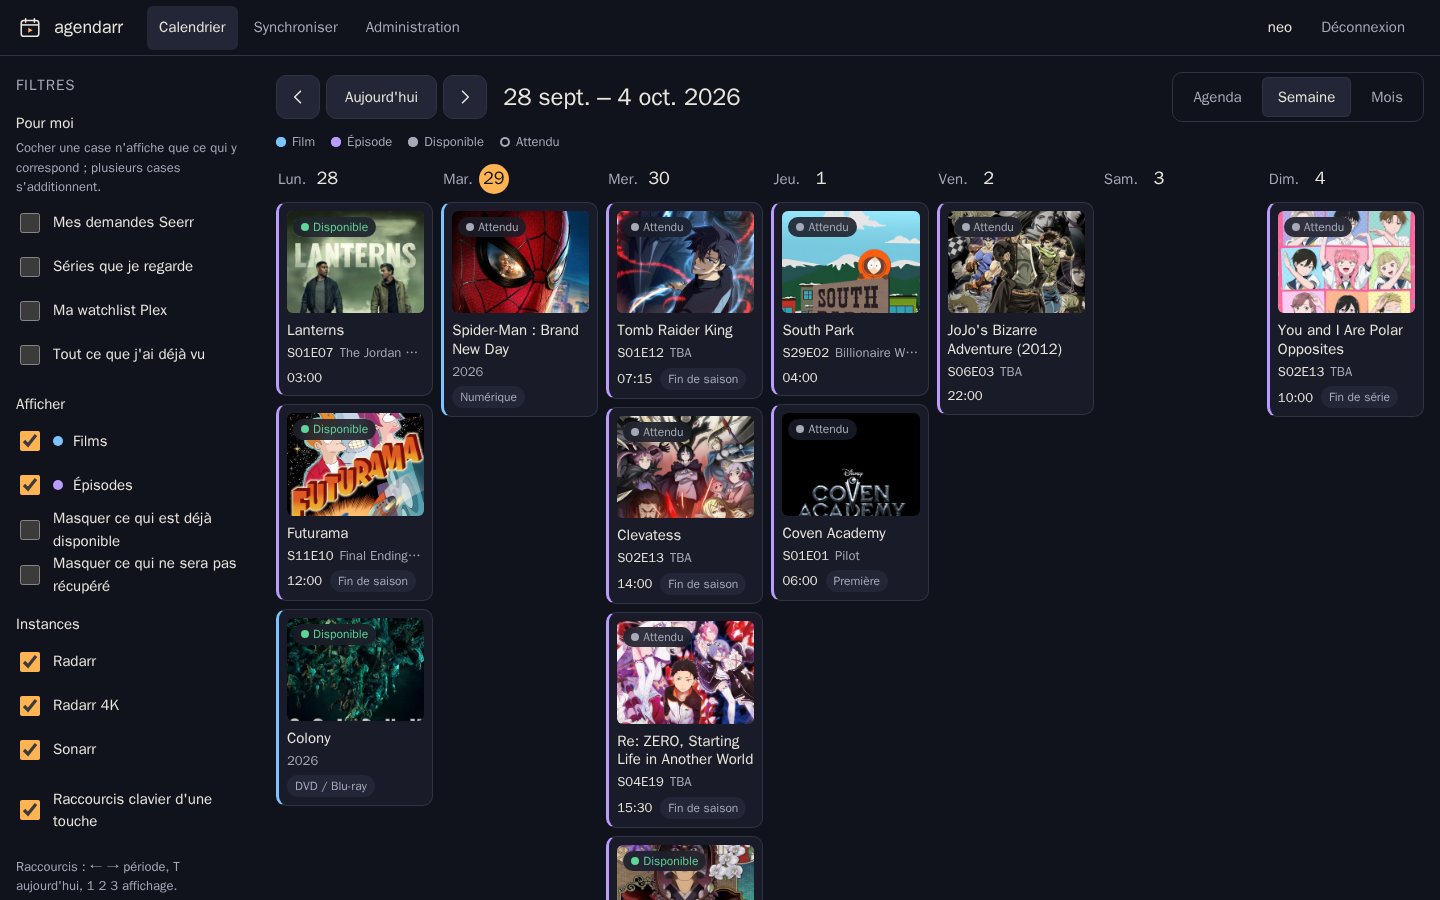
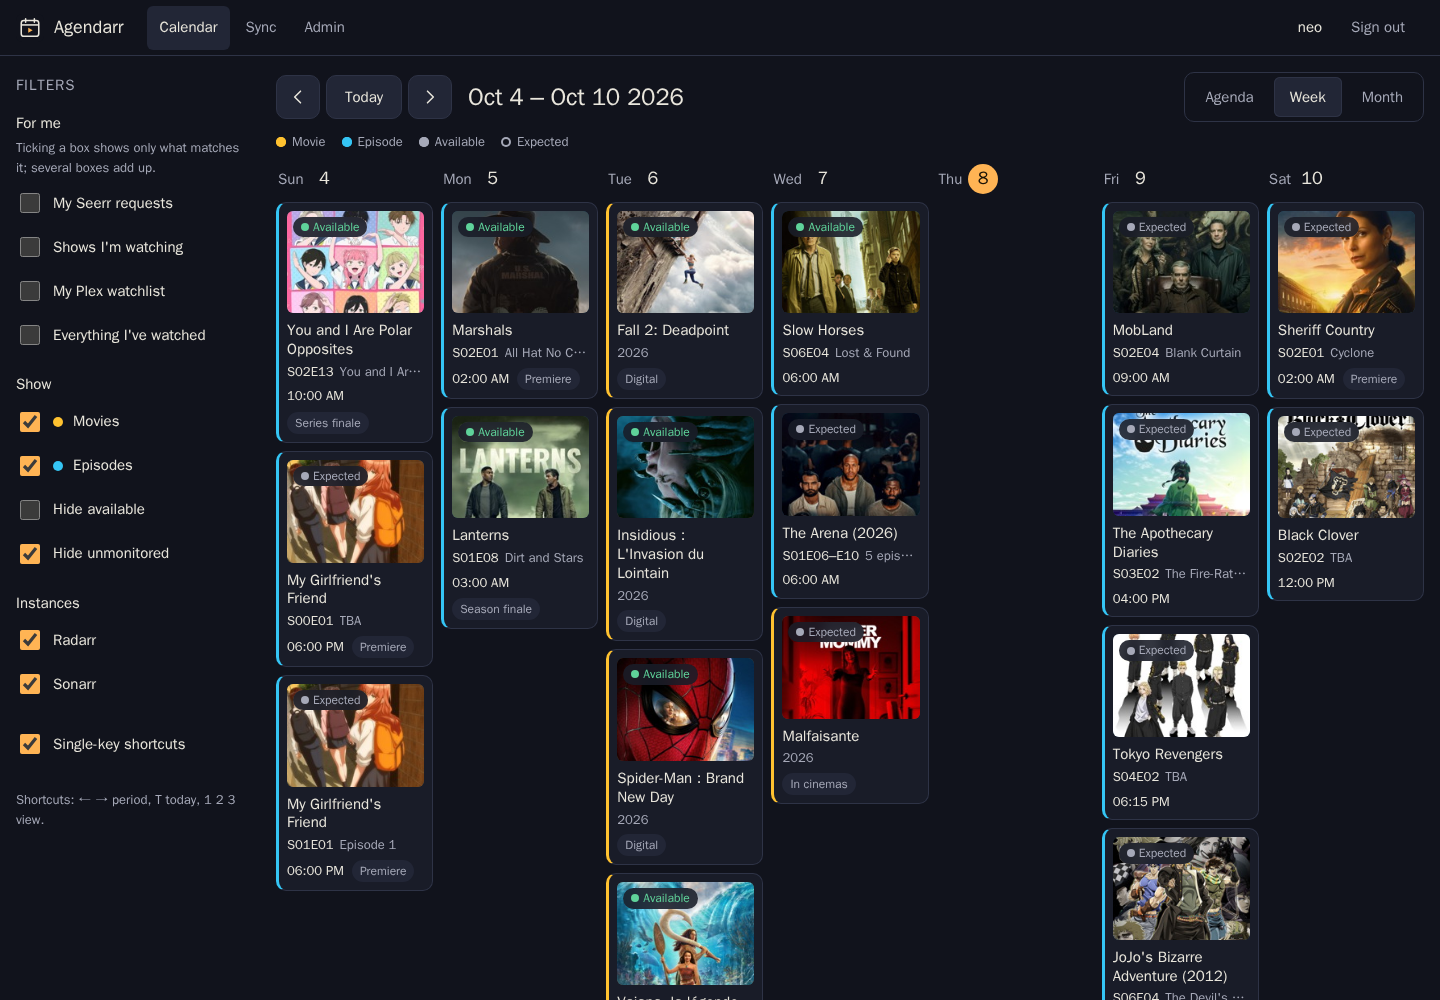
docs: README for a public release, with fresh screenshots
The screenshots dated from September and no longer matched the UI
(lowercase name, old labels and colours). New set, in English, light
and dark: month (switching with GitHub's theme), week, phone agenda,
detail sheet, calendar subscription and the instances admin page.

The README gains a pitch, requirements, reverse proxy examples (Caddy,
Traefik, nginx), backups (secret.key travels with the database) and
troubleshooting for the usual setup mistakes.

diff --git a/README.md b/README.md
@@ -1,40 +1,92 @@
+<div align="center">
+
+<img src="web/static/icons/icon.svg" width="96" height="96" alt="">
+
 # Agendarr
 
-A self-hosted release calendar for a Plex household. Agendarr merges the
-calendars of your Radarr and Sonarr instances, knows from Seerr who asked for
-what, and lets each person sign in with their Plex account to see everything —
-or only what concerns them.
+**The release calendar for your Plex household.**
 
-![Month view on desktop](docs/screenshots/desktop-month.png)
+Radarr, Sonarr and Seerr in one calendar. Everyone signs in with their Plex account
+and sees everything that's coming, or just what they care about.
 
-| Week view | Agenda on a phone | Release details |
-| --- | --- | --- |
-| ![Week view](docs/screenshots/desktop-week.png) | ![Agenda](docs/screenshots/phone-agenda.png) | ![Details](docs/screenshots/phone-detail.png) |
+[![CI](https://github.com/neotoxicfr/agendarr/actions/workflows/ci.yml/badge.svg?branch=dev)](https://github.com/neotoxicfr/agendarr/actions/workflows/ci.yml)
+[![Release](https://img.shields.io/github/v/release/neotoxicfr/agendarr?sort=semver)](https://github.com/neotoxicfr/agendarr/releases)
+[![License: MIT](https://img.shields.io/badge/license-MIT-blue.svg)](LICENSE)
+
+</div>
+
+<picture>
+  <source media="(prefers-color-scheme: light)" srcset="docs/screenshots/desktop-month-light.png">
+  <img src="docs/screenshots/desktop-month-dark.png" alt="Agendarr month view on a desktop: movies and episodes of October, with the filter panel on the left">
+</picture>
+
+## Why Agendarr
+
+Radarr and Sonarr each have a calendar, but each one only covers its own instance,
+and only the admin can open them. Agendarr gives the whole household one calendar:
+
+- **Nothing to set up for your users.** Anyone you share your Plex server with
+  signs in with Plex. No accounts or invitations to create.
+- **Everyone gets their own view.** *My Seerr requests*, *shows I'm watching*,
+  *my Plex watchlist*, *everything I've watched*: each person ticks what they want.
+- **It goes where people already look.** A personal iCal link puts releases in
+  Apple Calendar, Google Calendar or Outlook, with that person's filters applied.
+
+<table>
+  <tr>
+    <td width="33%"><img src="docs/screenshots/phone-agenda.png" alt="Agenda view on a phone, with posters, episode codes and status"></td>
+    <td width="33%"><img src="docs/screenshots/phone-detail.png" alt="Release details in a bottom sheet on a phone"></td>
+    <td width="33%"><img src="docs/screenshots/phone-sync.png" alt="Calendar subscription page with Apple, Google and Outlook buttons"></td>
+  </tr>
+  <tr>
+    <td align="center">Agenda on a phone</td>
+    <td align="center">Release details</td>
+    <td align="center">Subscribe in your calendar app</td>
+  </tr>
+</table>
+
+![Week view on a desktop, with posters and availability badges](docs/screenshots/desktop-week.png)
 
 ## Features
 
-- **One calendar for every instance**: several Radarr and Sonarr instances
-  (a 4K one, an anime one…), duplicates merged. Movies show their cinema,
-  digital and physical releases; episodes their exact air time, in each
-  viewer's time zone.
-- **Sign in with Plex**: anyone the Plex server is shared with can sign in.
-  On first run, the owner of the Plex server becomes the administrator and
-  the server is bound automatically. Access is re-checked daily.
-- **Personal filters**, each person's choice, combinable: *my Seerr
-  requests*, *shows I'm watching* (Plex history, last 90 days), *my Plex
-  watchlist*, *everything I've watched*. Every release shows who requested it.
-- **Desktop and phone alike**: month, week and agenda views; keyboard
-  shortcuts and a side panel on desktop; bottom tab bar, swipe and bottom
-  sheets on phones. Installable as a PWA, readable offline.
-- **Calendar subscription**: a personal iCal link for Apple Calendar, Google
-  Calendar (and so Android) and Outlook, with your filters applied.
-- **Accessible**: WCAG 2.2 AA checked with axe on every page, full keyboard
-  use, screen-reader labels, reduced motion respected.
-- **French and English**, picked from the browser or chosen in the footer.
+- **Every instance in one place.** Add as many Radarr and Sonarr instances as you
+  run (4K, anime…); a release seen by several of them shows once. Movies show
+  their cinema, digital and physical releases. Episodes show their air time in
+  each viewer's time zone, and season or series finales are flagged.
+- **Plex sign-in.** On first run, the owner of the Plex server becomes the
+  administrator and their server is bound automatically. Access is re-checked
+  every day, so someone you stop sharing with loses access too.
+- **Personal filters**, which can be combined: Seerr requests, shows watched in
+  the last 90 days, Plex watchlist, full Plex history. Every release shows who
+  requested it.
+- **Made for desktop and phone alike.** On desktop: month, week and agenda views,
+  keyboard shortcuts and a filter panel. On phones: a bottom tab bar, swipe
+  between periods and bottom sheets. Installable as an app (PWA) and readable
+  offline.
+- **Calendar subscription.** A private iCal link per person, which they can revoke
+  at any time.
+- **Accessible.** Checked against WCAG 2.2 AA with axe on every page. Fully
+  usable with a keyboard, labelled for screen readers, and it respects reduced
+  motion.
+- **Light and dark**, following the system theme. **English and French**, taken
+  from the browser or picked in the footer.
+- **Small and private.** A single Go binary in a `scratch` image (amd64, arm64,
+  armv7) and one SQLite file. API keys never reach the browser, and the server
+  only talks to your own servers and plex.tv.
 
-## Install
+## Requirements
+
+- A **Plex Media Server**. You sign in with the account that owns it.
+- **Radarr** and/or **Sonarr** (API v3; tested with Radarr 6 and Sonarr 4).
+- Optional: **Seerr** (or Overseerr / Jellyseerr) for the *my requests* filter
+  and the *requested by* names.
+- A reverse proxy with **HTTPS** if you want the app to install on phones and
+  calendar apps to subscribe.
+
+## Quick start
 
 ```yaml
+# docker-compose.yml
 services:
   agendarr:
     image: ghcr.io/neotoxicfr/agendarr:latest
@@ -43,6 +95,8 @@ services:
     environment:
       TZ: Europe/Paris
       AGENDARR_BASE_URL: https://agenda.example.com
+      # Optional: how Agendarr reaches Plex for the history-based filters.
+      # AGENDARR_PLEX_SERVER_URL: http://plex:32400
     volumes:
       - ./data:/data
     ports:
@@ -53,44 +107,126 @@ services:
       - no-new-privileges:true
 ```
 
-The full example is [`deploy/compose.yml.example`](deploy/compose.yml.example).
-Put Agendarr behind your reverse proxy over HTTPS: the PWA only installs over
-HTTPS, and calendar apps need a public URL to subscribe.
+```bash
+docker compose up -d
+```
+
+Then open `https://agenda.example.com`. [`deploy/compose.yml.example`](deploy/compose.yml.example)
+has the same file with comments.
 
 ### First run
 
-1. Open Agendarr and **sign in with the Plex account that owns the server**.
-   It becomes the administrator; if it owns several servers, pick one.
-2. In *Admin › Instances*, add **Seerr**, then click **Import Radarr and
-   Sonarr**: Agendarr copies the servers Seerr knows, keys included. Or add
-   Radarr and Sonarr by hand (*Settings › General* in each app for the API
-   key). **Test connection** checks each one before saving.
-3. Share the URL with your Plex users: they sign in with Plex, nothing to
-   create.
+1. **Sign in with the Plex account that owns the server.** It becomes the
+   administrator. If it owns several servers, pick one.
+2. In **Admin › Instances**, add **Seerr**, then click **Import Radarr and Sonarr**:
+   Agendarr copies the servers Seerr already knows, API keys included. You can
+   also add Radarr and Sonarr by hand (the API key is in *Settings › General* of
+   each app). **Test connection** checks each one before saving.
+3. **Share the URL** with your Plex users. They sign in with Plex, and that's it.
+
+<p align="center">
+  <img src="docs/screenshots/desktop-admin.png" width="85%" alt="Admin page listing the Radarr, Sonarr and Seerr instances, with an Import Radarr and Sonarr button">
+</p>
+
+### Behind a reverse proxy
+
+Agendarr is a plain HTTP server on port 8080. Leave compression to the proxy.
+
+<details>
+<summary>Caddy</summary>
+
+```caddy
+agenda.example.com {
+    encode zstd gzip
+    reverse_proxy agendarr:8080
+}
+```
+</details>
+
+<details>
+<summary>Traefik (labels)</summary>
+
+```yaml
+    labels:
+      traefik.enable: "true"
+      traefik.http.routers.agendarr.rule: Host(`agenda.example.com`)
+      traefik.http.routers.agendarr.entrypoints: websecure
+      traefik.http.routers.agendarr.tls.certresolver: letsencrypt
+      traefik.http.services.agendarr.loadbalancer.server.port: "8080"
+```
+</details>
+
+<details>
+<summary>nginx</summary>
+
+```nginx
+server {
+    listen 443 ssl;
+    server_name agenda.example.com;
+    # ssl_certificate …
+
+    location / {
+        proxy_pass http://agendarr:8080;
+        proxy_set_header Host $host;
+        proxy_set_header X-Forwarded-Proto $scheme;
+    }
+}
+```
+</details>
+
+Calendar apps fetch the iCal link from their own servers, so don't put an IP
+allowlist in front of `/ics/`, or Google and Outlook won't be able to read it.
 
 ## Configuration
 
+Everything else is set up in the app. The environment only covers what the
+app can't work out by itself:
+
 | Variable | Default | Purpose |
 | --- | --- | --- |
-| `AGENDARR_LISTEN` | `:8080` | HTTP listen address |
-| `AGENDARR_DATA_DIR` | `/data` (image), `./data` | Database, encryption key, poster cache |
 | `AGENDARR_BASE_URL` | derived from requests | Public URL, used for the Plex sign-in return and iCal links. Set it behind a proxy. |
-| `AGENDARR_PLEX_SERVER_URL` | advertised connections | How Agendarr reaches Plex for the history-based filters, e.g. `http://plex:32400` on a shared Docker network |
-| `AGENDARR_SECURE_COOKIES` | `true` when the base URL is https | Force the `Secure` cookie flag |
+| `AGENDARR_PLEX_SERVER_URL` | addresses advertised by plex.tv | How Agendarr reaches Plex for the history-based filters, e.g. `http://plex:32400` on a shared Docker network |
+| `AGENDARR_LISTEN` | `:8080` | HTTP listen address |
+| `AGENDARR_DATA_DIR` | `/data` | Database, encryption key, poster cache |
+| `AGENDARR_SECURE_COOKIES` | `true` when the base URL is https | Force the `Secure` cookie flag on or off |
+| `TZ` | UTC | Server time zone (logs). Each viewer sees times in their own time zone. |
+
+## Updating and backups
+
+```bash
+docker compose pull && docker compose up -d
+```
+
+Database migrations run on start. To back up, copy the data volume while the
+container is stopped. Keep `secret.key` with `agendarr.db`: tokens and API
+keys are encrypted with it, and a database without its key can't be read.
+
+## Troubleshooting
+
+- **"Shows I'm watching" or "Everything I've watched" says Plex is unreachable.**
+  Agendarr reads the history on your Plex server itself. Set
+  `AGENDARR_PLEX_SERVER_URL` to an address the container can reach, such as
+  `http://plex:32400`.
+- **"My Seerr requests" says no account is linked.** The person has never signed
+  in to Seerr with Plex, so Seerr doesn't know them.
+- **Google Calendar shows nothing yet.** Google refreshes subscribed calendars
+  every 12 to 24 hours. Apple and Outlook refresh about every hour.
+- **The app doesn't offer to install.** Installing requires HTTPS.
 
 ## How it works
 
-- Radarr and Sonarr calendars are read with their API keys and cached per
-  month for five minutes; an unreachable instance keeps its last known dates
-  and is named in a warning. Posters go through Agendarr
-  (`/api/v3/mediacover`), so API keys never reach the browser.
-- Seerr requests are indexed every ten minutes. Plex history is read on your
+- Radarr and Sonarr calendars are read with their API keys and cached per month
+  for five minutes. An unreachable instance keeps its last known dates and is
+  named in a warning. Posters go through Agendarr, so API keys never reach the
+  browser.
+- Seerr requests are indexed every ten minutes. Plex history is read from your
   server with the owner's token and resolved to TMDB/TVDB/IMDb ids once.
 - Everything lives in one SQLite file. Plex tokens and API keys are encrypted
-  with AES-256-GCM; the key sits next to the database, so keep the data
-  volume private. See [SECURITY.md](SECURITY.md) and the in-app privacy page.
+  with AES-256-GCM. See [SECURITY.md](SECURITY.md) and the in-app privacy page.
 
 ## Development
+
+Requires Go (see [`go.mod`](go.mod)).
 
 ```bash
 make dev         # http://localhost:8080, data in ./data
@@ -98,7 +234,8 @@ make test-race
 make lint
 ```
 
-See [CONTRIBUTING.md](CONTRIBUTING.md). Security issues: [SECURITY.md](SECURITY.md).
+Contributions are welcome: see [CONTRIBUTING.md](CONTRIBUTING.md). Report
+security issues privately as described in [SECURITY.md](SECURITY.md).
 
 ## License
 
